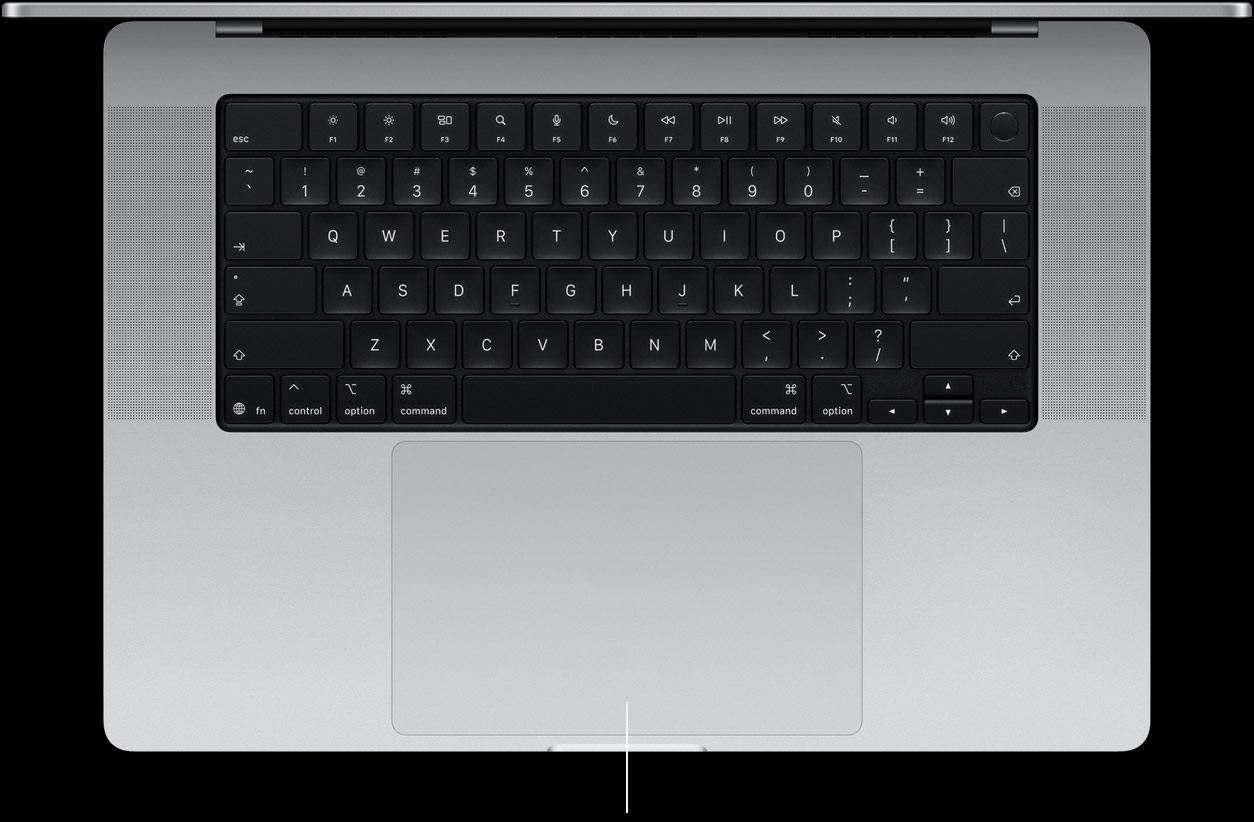
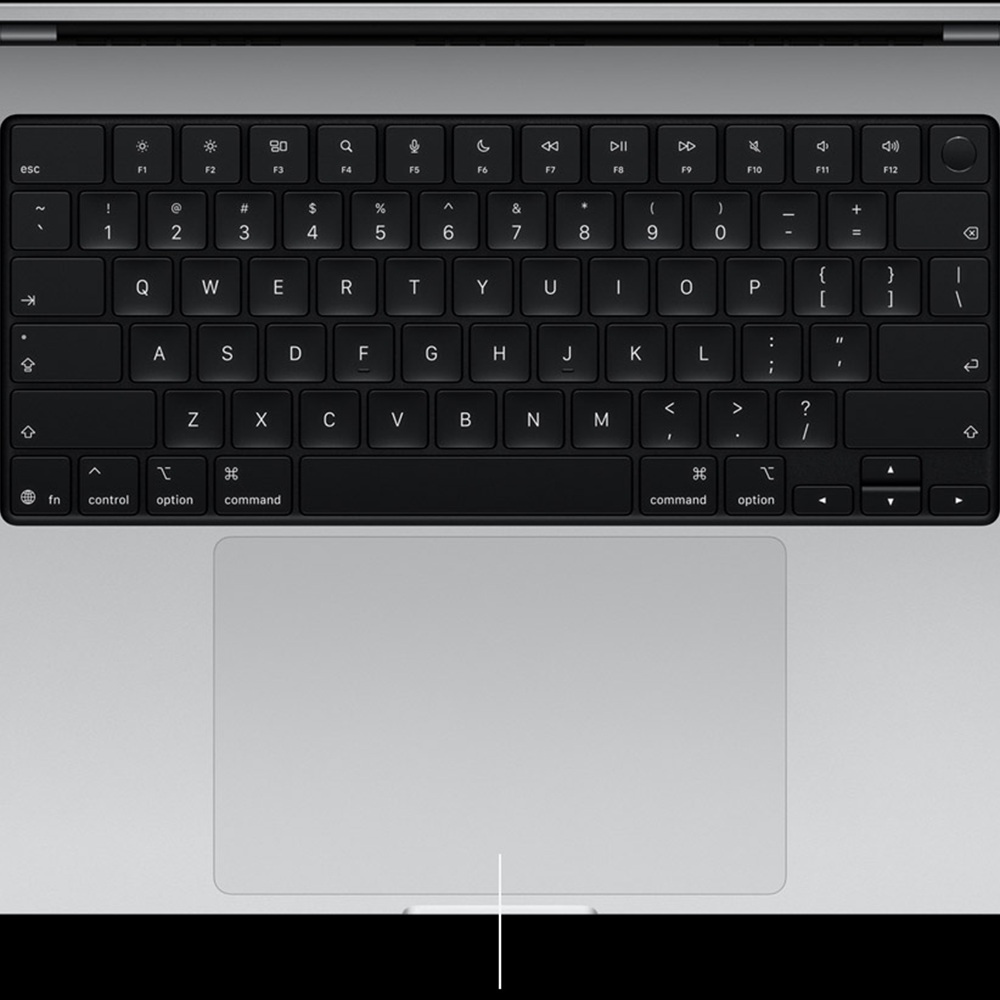
Crop and center MacBook Pro 16 product images to standard 1:1 square aspect ratio

diff --git a/store/macbookpro16/index.html b/store/macbookpro16/index.html
@@ -173,33 +173,33 @@
         <div class="gallery-column">
           <div class="thumbnail-strip" id="thumbnailStrip">
             <div class="thumb-item active" data-color="Space Black" title="Space Black Finish">
-              <img src="../../images/macbook/macbook-pro-16-space-black.jpg" alt="Space Black">
+              <img src="../../images/macbook/macbook-pro-16-space-black.jpg?v=20260930_crop" alt="Space Black">
             </div>
             <div class="thumb-item" data-color="Silver" title="Silver Finish">
-              <img src="../../images/macbook/macbook-pro-16-silver.jpg" alt="Silver">
+              <img src="../../images/macbook/macbook-pro-16-silver.jpg?v=20260930_crop" alt="Silver">
             </div>
-            <div class="thumb-item" data-img="../../images/macbook/macbook-pro-16-display.jpg" title="16.2-inch Liquid Retina XDR Display">
-              <img src="../../images/macbook/macbook-pro-16-display.jpg" alt="Liquid Retina XDR Display">
+            <div class="thumb-item" data-img="../../images/macbook/macbook-pro-16-display.jpg?v=20260930_crop" title="16.2-inch Liquid Retina XDR Display">
+              <img src="../../images/macbook/macbook-pro-16-display.jpg?v=20260930_crop" alt="Liquid Retina XDR Display">
             </div>
-            <div class="thumb-item" data-img="../../images/macbook/macbook-pro-16-nano-texture.jpg" title="Nano-Texture Display Glass">
-              <img src="../../images/macbook/macbook-pro-16-nano-texture.jpg" alt="Nano-Texture Glass">
+            <div class="thumb-item" data-img="../../images/macbook/macbook-pro-16-nano-texture.jpg?v=20260930_crop" title="Nano-Texture Display Glass">
+              <img src="../../images/macbook/macbook-pro-16-nano-texture.jpg?v=20260930_crop" alt="Nano-Texture Glass">
             </div>
-            <div class="thumb-item" data-img="../../images/macbook/macbook-pro-16-keyboard.jpg" title="Magic Keyboard &amp; Touch ID">
-              <img src="../../images/macbook/macbook-pro-16-keyboard.jpg" alt="Magic Keyboard">
+            <div class="thumb-item" data-img="../../images/macbook/macbook-pro-16-keyboard.jpg?v=20260930_crop" title="Magic Keyboard &amp; Touch ID">
+              <img src="../../images/macbook/macbook-pro-16-keyboard.jpg?v=20260930_crop" alt="Magic Keyboard">
             </div>
-            <div class="thumb-item" data-img="../../images/macbook/macbook-pro-16-connectivity.jpg" title="Thunderbolt 5 &amp; MagSafe 3 Ports">
-              <img src="../../images/macbook/macbook-pro-16-connectivity.jpg" alt="Ports &amp; Connectivity">
+            <div class="thumb-item" data-img="../../images/macbook/macbook-pro-16-connectivity.jpg?v=20260930_crop" title="Thunderbolt 5 &amp; MagSafe 3 Ports">
+              <img src="../../images/macbook/macbook-pro-16-connectivity.jpg?v=20260930_crop" alt="Ports &amp; Connectivity">
             </div>
-            <div class="thumb-item" data-img="../../images/macbook/macbook-pro-16-profile.jpg" title="Precision Aluminum Unibody">
-              <img src="../../images/macbook/macbook-pro-16-profile.jpg" alt="Unibody Profile">
+            <div class="thumb-item" data-img="../../images/macbook/macbook-pro-16-profile.jpg?v=20260930_crop" title="Precision Aluminum Unibody">
+              <img src="../../images/macbook/macbook-pro-16-profile.jpg?v=20260930_crop" alt="Unibody Profile">
             </div>
-            <div class="thumb-item" data-img="../../images/macbook/macbook-pro-16-box.jpg" title="What's in the Box: 140W Adapter &amp; MagSafe 3 Cable">
-              <img src="../../images/macbook/macbook-pro-16-box.jpg" alt="What's in the Box">
+            <div class="thumb-item" data-img="../../images/macbook/macbook-pro-16-box.jpg?v=20260930_crop" title="What's in the Box: 140W Adapter &amp; MagSafe 3 Cable">
+              <img src="../../images/macbook/macbook-pro-16-box.jpg?v=20260930_crop" alt="What's in the Box">
             </div>
           </div>
 
           <div class="main-image-viewer">
-            <img id="mainProductPhoto" src="../../images/macbook/macbook-pro-16-space-black.jpg" alt="Apple MacBook Pro 16-inch in Space Black">
+            <img id="mainProductPhoto" src="../../images/macbook/macbook-pro-16-space-black.jpg?v=20260930_crop" alt="Apple MacBook Pro 16-inch in Space Black">
           </div>
         </div>
 
@@ -539,7 +539,7 @@
 
             <div id="stepReviewBody" style="display:none;">
               <div style="display:flex; gap:16px; align-items:center; padding:14px; background:#f9fafb; border:1px solid #eee; border-radius:6px; margin-bottom:16px;">
-                <img id="reviewItemPhoto" src="../../images/macbook/macbook-pro-16-space-black.jpg" style="width:65px; height:65px; object-fit:contain;" alt="Apple MacBook Pro 16">
+                <img id="reviewItemPhoto" src="../../images/macbook/macbook-pro-16-space-black.jpg?v=20260930_crop" style="width:65px; height:65px; object-fit:contain;" alt="Apple MacBook Pro 16">
                 <div>
                   <h4 id="reviewItemTitle" style="font-size:15px; font-weight:700;">Apple MacBook Pro 16-inch (M4 Max)</h4>
                   <div style="font-size:13px; color:#555; margin-top:2px;">
@@ -780,6 +780,6 @@
 
   <script src="../../html2pdf.bundle.min.js"></script>
   <script src="../../invoice-pdf.js"></script>
-  <script src="../../macbook-app.js?v=20260930_01"></script>
+  <script src="../../macbook-app.js?v=20260930_crop"></script>
 </body>
 </html>

diff --git a/macbook-app.js b/macbook-app.js
@@ -11,13 +11,13 @@ const PRODUCT = {
   seller: "Apple Official Store on Amazon",
   colors: {
     "Space Black": {
-      img: PATH_PREFIX + "images/macbook/macbook-pro-16-space-black.jpg",
-      thumb: PATH_PREFIX + "images/macbook/macbook-pro-16-space-black.jpg",
+      img: PATH_PREFIX + "images/macbook/macbook-pro-16-space-black.jpg?v=20260930_crop",
+      thumb: PATH_PREFIX + "images/macbook/macbook-pro-16-space-black.jpg?v=20260930_crop",
       swatchClass: "swatch-space-black"
     },
     "Silver": {
-      img: PATH_PREFIX + "images/macbook/macbook-pro-16-silver.jpg",
-      thumb: PATH_PREFIX + "images/macbook/macbook-pro-16-silver.jpg",
+      img: PATH_PREFIX + "images/macbook/macbook-pro-16-silver.jpg?v=20260930_crop",
+      thumb: PATH_PREFIX + "images/macbook/macbook-pro-16-silver.jpg?v=20260930_crop",
       swatchClass: "swatch-silver"
     }
   },

diff --git a/store/macbookpro16/macbook-app.js b/store/macbookpro16/macbook-app.js
@@ -11,13 +11,13 @@ const PRODUCT = {
   seller: "Apple Official Store on Amazon",
   colors: {
     "Space Black": {
-      img: PATH_PREFIX + "images/macbook/macbook-pro-16-space-black.jpg",
-      thumb: PATH_PREFIX + "images/macbook/macbook-pro-16-space-black.jpg",
+      img: PATH_PREFIX + "images/macbook/macbook-pro-16-space-black.jpg?v=20260930_crop",
+      thumb: PATH_PREFIX + "images/macbook/macbook-pro-16-space-black.jpg?v=20260930_crop",
       swatchClass: "swatch-space-black"
     },
     "Silver": {
-      img: PATH_PREFIX + "images/macbook/macbook-pro-16-silver.jpg",
-      thumb: PATH_PREFIX + "images/macbook/macbook-pro-16-silver.jpg",
+      img: PATH_PREFIX + "images/macbook/macbook-pro-16-silver.jpg?v=20260930_crop",
+      thumb: PATH_PREFIX + "images/macbook/macbook-pro-16-silver.jpg?v=20260930_crop",
       swatchClass: "swatch-silver"
     }
   },

diff --git a/index.html b/index.html
@@ -201,7 +201,7 @@
       <a href="store/macbookpro16/" class="store-card">
         <span class="card-badge" style="background:#0f1111;">Apple M4 Max Flagship</span>
         <div class="card-img-wrap" style="background:#ffffff; border:1px solid #e7e7e7;">
-          <img src="images/macbook/macbook-pro-16-space-black.jpg" alt="Apple MacBook Pro 16-inch in Space Black">
+          <img src="images/macbook/macbook-pro-16-space-black.jpg?v=20260930_crop" alt="Apple MacBook Pro 16-inch in Space Black">
         </div>
         <h2 class="card-title">Apple MacBook Pro 16-inch (M4 Max, 16-core CPU, 40-core GPU, 48 GB, 1 TB SSD) - Space Black</h2>
         <div class="card-stars">★★★★★ <span style="color:#007185; font-size:12px;">(3,840)</span></div>
